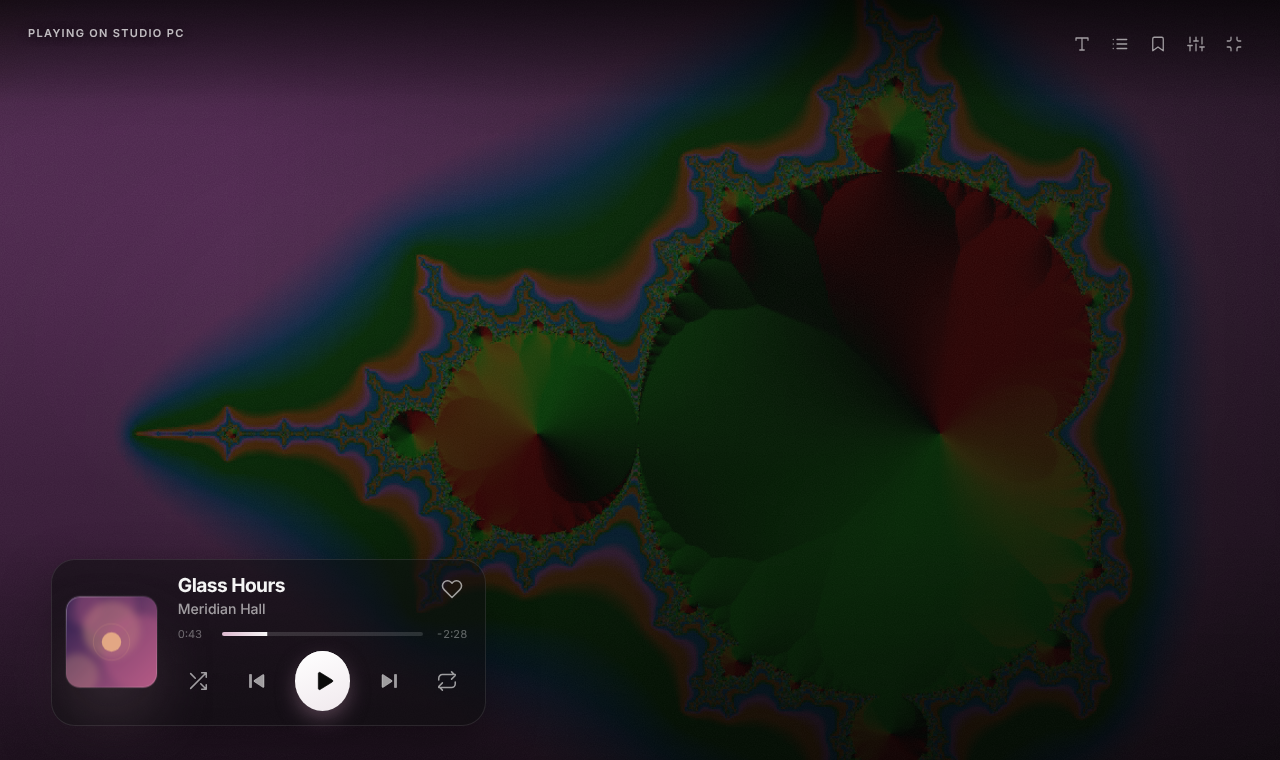
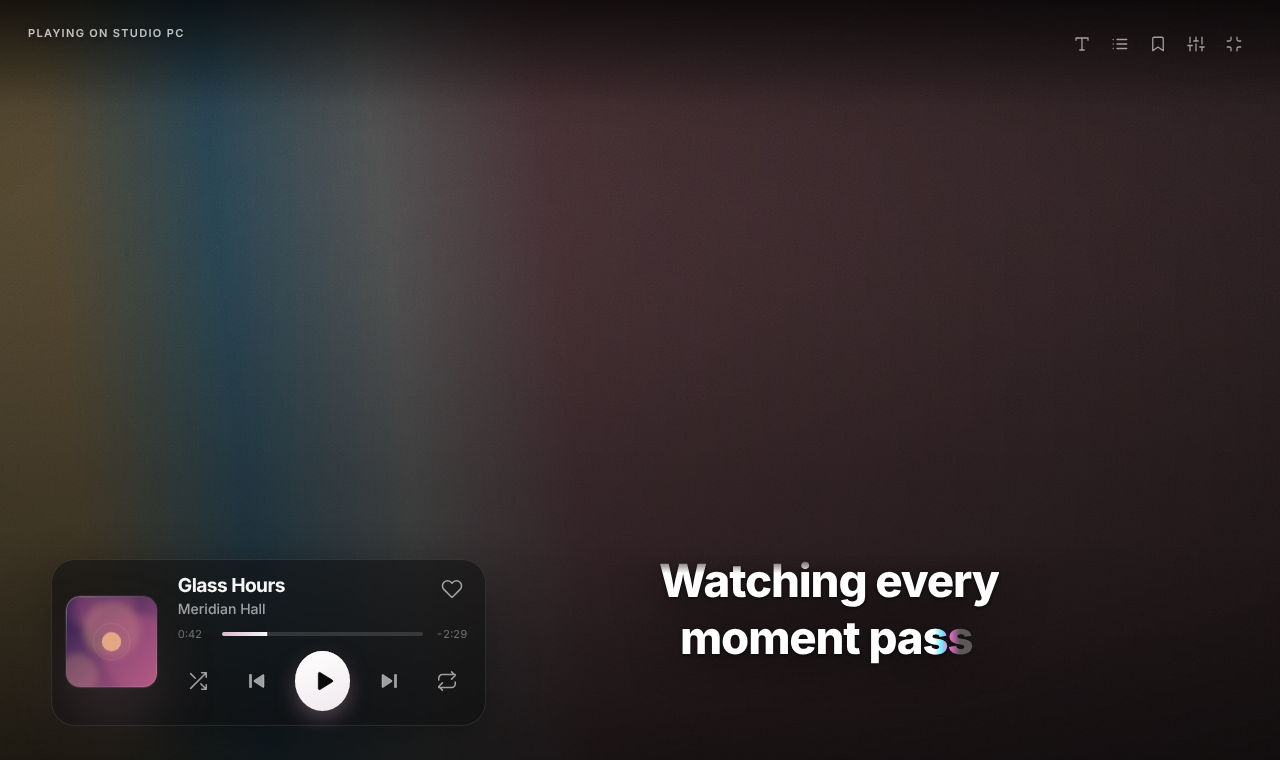
fix(fullscreen): Focus layout lyrics collapsed to 0px and overlapped the track card
Claude-Session: https://claude.ai/code/session_01WnFj2sEwg1aNTpZxVqmQmx

diff --git a/src/renderer/src/styles/player.css b/src/renderer/src/styles/player.css
@@ -957,15 +957,16 @@
 
 /* Focus: a single subtitle-style line keeps the video unobstructed. */
 :root:not([data-platform='android']) .full.is-cinema.layout-focus .full__lyrics {
-  left: 8%;
-  right: 8%;
+  /* start to the right of the track card (bottom-left) so a subtitle never overlaps it */
+  left: max(8%, 520px);
+  right: 6%;
   top: auto;
   bottom: clamp(34px, 7vh, 84px);
-  height: auto;
-  min-height: clamp(90px, 18vh, 180px);
+  /* explicit height: the scroller uses size containment and collapses to 0 inside an auto-height box */
+  height: clamp(110px, 20vh, 190px);
 }
 :root:not([data-platform='android']) .full.is-cinema.layout-focus .lyrics__inner {
-  padding: 30cqh 4px 60cqh 0;
+  padding: 34cqh 4px 58cqh 0;
 }
 :root:not([data-platform='android']) .full.is-cinema.layout-focus .lyrics--full .lyric {
   justify-content: center;
